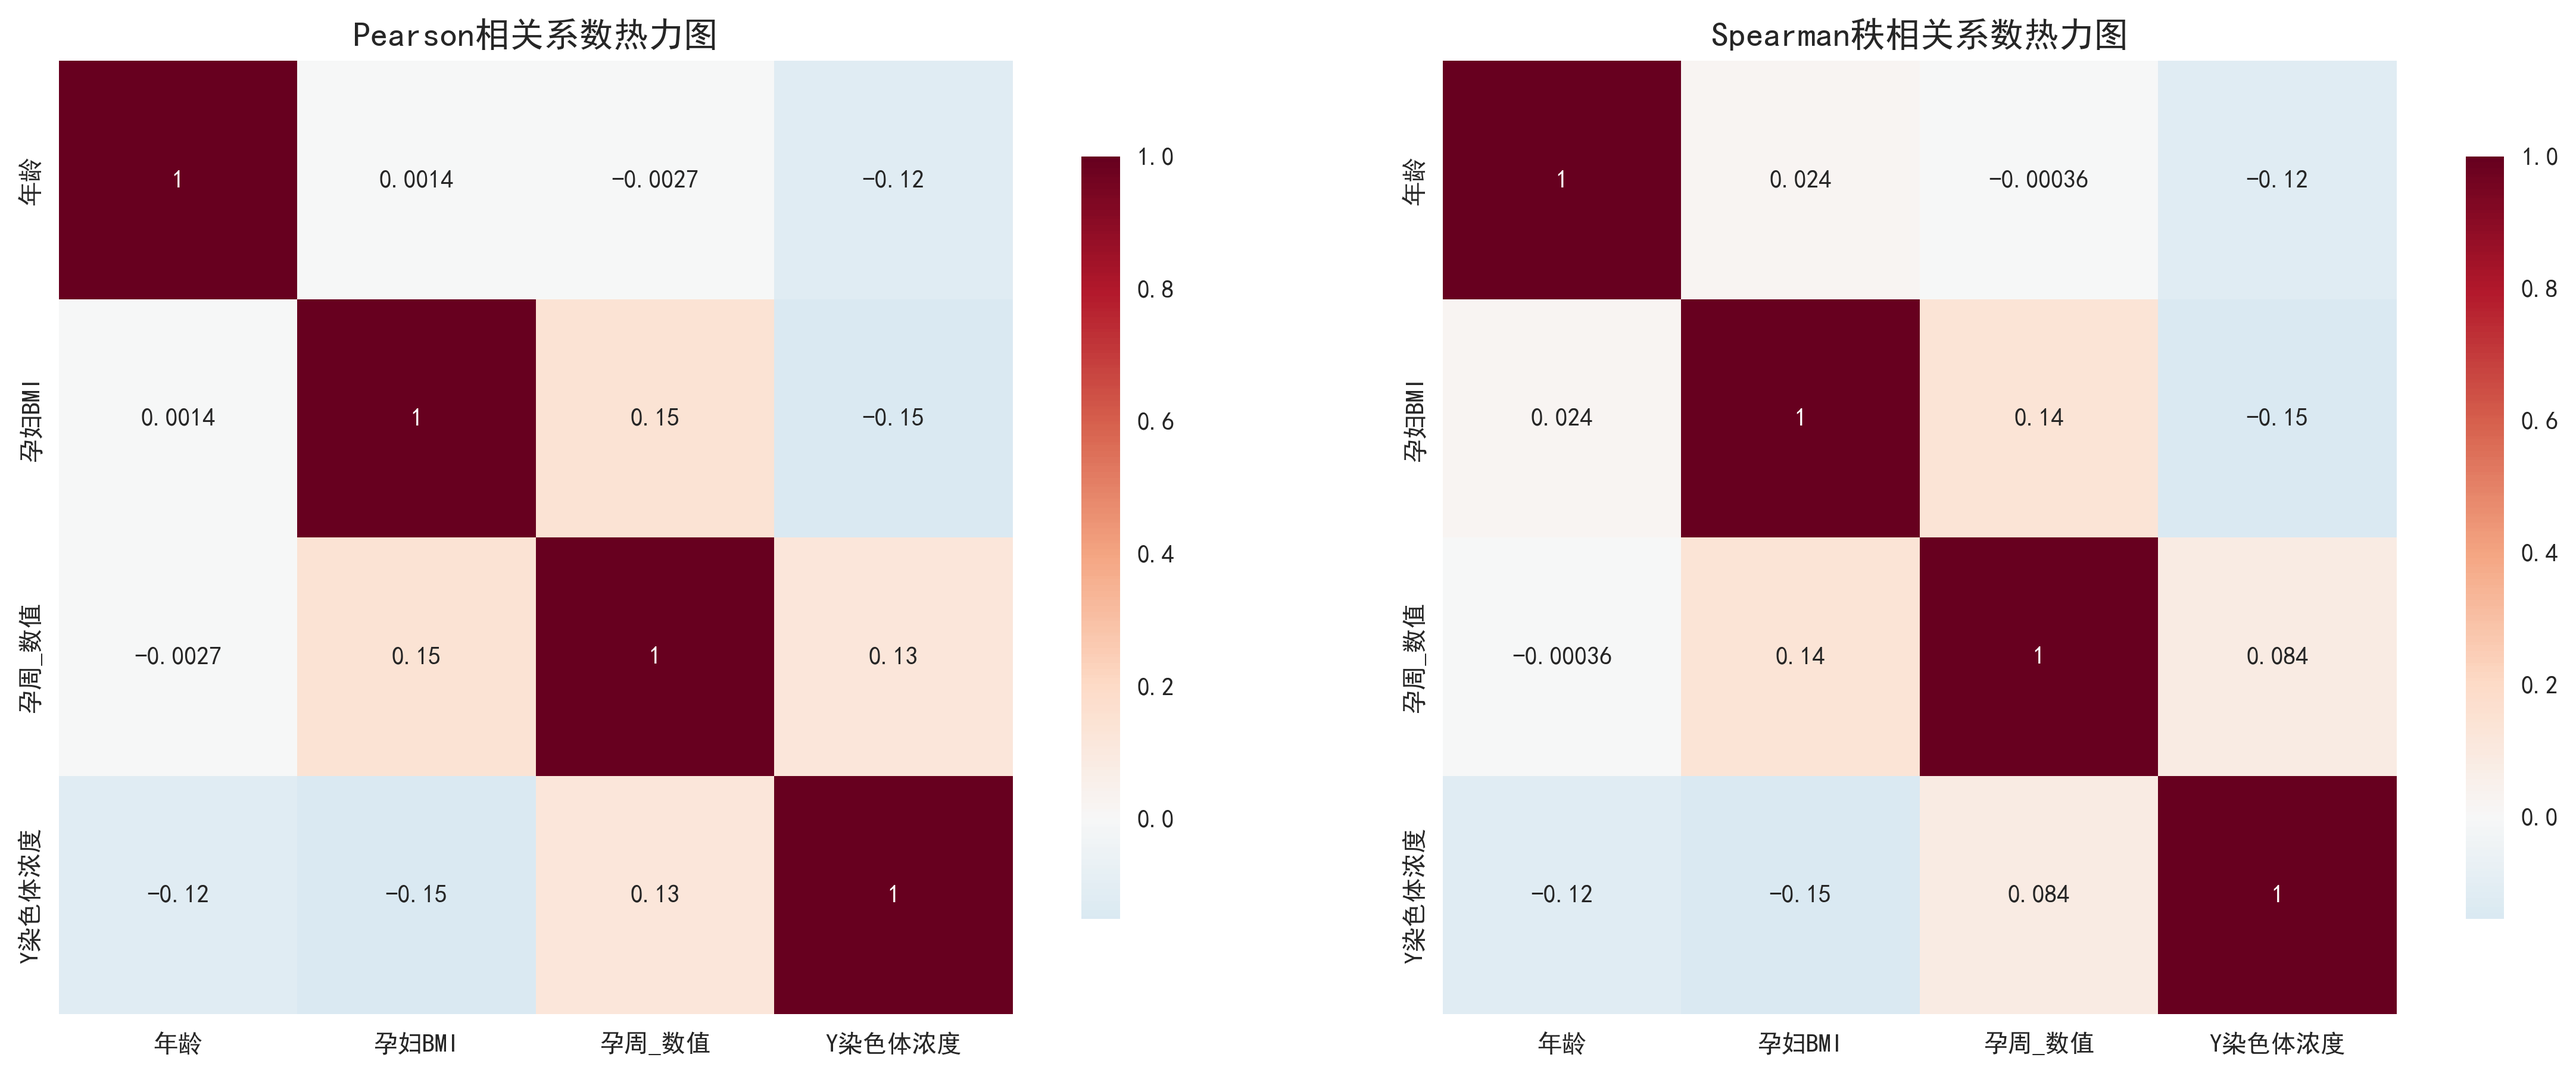
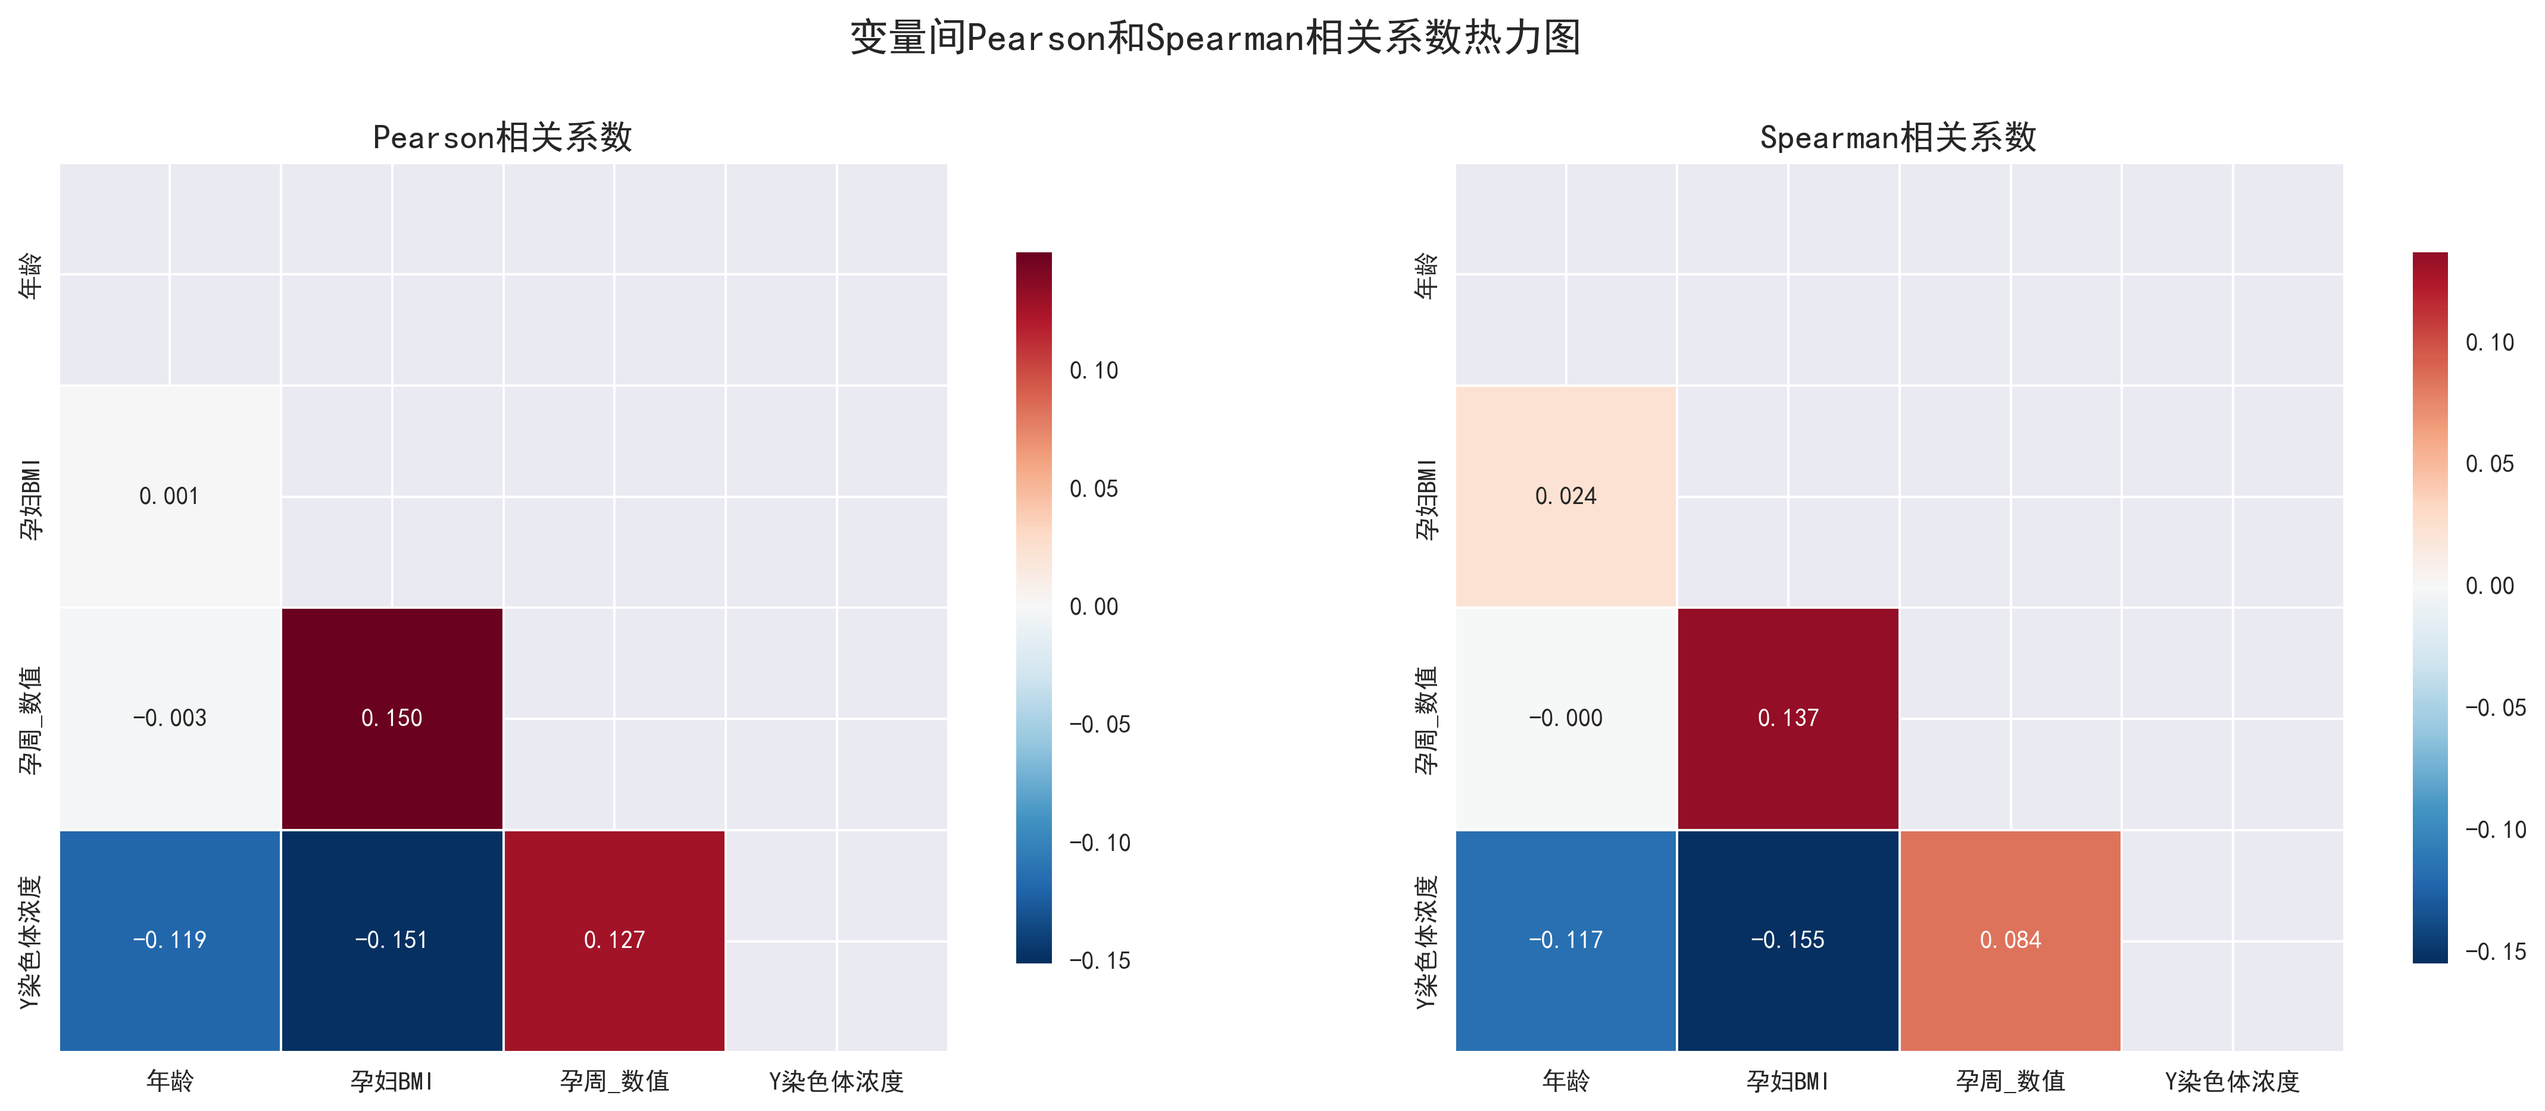
finish_task1

diff --git a/task1_nonlinear.py b/task1_nonlinear.py
@@ -75,10 +75,185 @@ class NonlinearNIPTAnalyzer:
             print("数据预处理失败！")
             return False
     
+    def correlation_analysis(self):
+        """相关性分析和热力图"""
+        print("\n" + "="*80)
+        print("1. 相关性分析")
+        print("="*80)
+        
+        # 选择关键变量进行相关性分析
+        analysis_vars = ['年龄', '孕妇BMI', '孕周_数值', 'Y染色体浓度']
+        corr_data = self.male_data[analysis_vars].copy()
+        
+        # 计算Pearson和Spearman相关系数
+        pearson_corr = corr_data.corr(method='pearson')
+        spearman_corr = corr_data.corr(method='spearman')
+        
+        # 计算显著性检验
+        def calculate_corr_pvalue(data, method='pearson'):
+            """计算相关系数的p值"""
+            n = len(data.columns)
+            p_matrix = np.zeros((n, n))
+            for i in range(n):
+                for j in range(n):
+                    if i != j:
+                        if method == 'pearson':
+                            _, p_val = pearsonr(data.iloc[:, i], data.iloc[:, j])
+                        else:
+                            _, p_val = spearmanr(data.iloc[:, i], data.iloc[:, j])
+                        p_matrix[i, j] = p_val
+                    else:
+                        p_matrix[i, j] = 0
+            return pd.DataFrame(p_matrix, index=data.columns, columns=data.columns)
+        
+        pearson_p = calculate_corr_pvalue(corr_data, 'pearson')
+        spearman_p = calculate_corr_pvalue(corr_data, 'spearman')
+        
+        # 创建相关性热力图
+        fig, axes = plt.subplots(1, 2, figsize=(16, 6))
+        
+        # Pearson相关性热力图
+        mask_pearson = np.triu(np.ones_like(pearson_corr, dtype=bool))
+        sns.heatmap(pearson_corr, mask=mask_pearson, annot=True, cmap='RdBu_r', center=0,
+                   square=True, linewidths=0.5, cbar_kws={"shrink": .8}, ax=axes[0],
+                   fmt='.3f', annot_kws={'size': 10})
+        axes[0].set_title('Pearson相关系数', fontsize=14, fontweight='bold')
+        axes[0].set_xlabel('')
+        axes[0].set_ylabel('')
+        
+        # Spearman相关性热力图
+        mask_spearman = np.triu(np.ones_like(spearman_corr, dtype=bool))
+        sns.heatmap(spearman_corr, mask=mask_spearman, annot=True, cmap='RdBu_r', center=0,
+                   square=True, linewidths=0.5, cbar_kws={"shrink": .8}, ax=axes[1],
+                   fmt='.3f', annot_kws={'size': 10})
+        axes[1].set_title('Spearman相关系数', fontsize=14, fontweight='bold')
+        axes[1].set_xlabel('')
+        axes[1].set_ylabel('')
+        
+        plt.suptitle('变量间Pearson和Spearman相关系数热力图', fontsize=16, fontweight='bold', y=1.02)
+        plt.tight_layout()
+        plt.savefig('correlation_heatmap.png', dpi=300, bbox_inches='tight')
+        plt.show()
+        
+        # 输出核心发现
+        print("\n核心发现:")
+        target_var = 'Y染色体浓度'
+        for var in ['孕周_数值', '孕妇BMI', '年龄']:
+            pearson_r = pearson_corr.loc[var, target_var]
+            pearson_p_val = pearson_p.loc[var, target_var]
+            spearman_r = spearman_corr.loc[var, target_var]
+            spearman_p_val = spearman_p.loc[var, target_var]
+            
+            var_name = var.replace('_数值', '')
+            corr_direction = "正相关" if pearson_r > 0 else "负相关"
+            significance = "p<0.001" if pearson_p_val < 0.001 else f"p={pearson_p_val:.3f}"
+            
+            print(f"Y染色体浓度与{var_name}：{corr_direction}（r={pearson_r:.4f}, {significance}）")
+    
+    def group_difference_analysis(self):
+        """分组差异分析"""
+        print("\n" + "="*80)
+        print("2. 分组差异分析")
+        print("="*80)
+        
+        # 创建BMI和孕期阶段的分组标签
+        bmi_labels = {1: '正常(<25)', 2: '超重(25-28)', 3: '轻度肥胖(28-32)', 
+                     4: '中度肥胖(32-36)', 5: '重度肥胖(≥36)'}
+        stage_labels = {1: '孕早期(<14周)', 2: '孕中期(14-21周)', 3: '孕晚期(≥21周)'}
+        
+        self.male_data['BMI分组_标签'] = self.male_data['BMI分组'].map(bmi_labels)
+        self.male_data['孕期阶段_标签'] = self.male_data['孕期阶段'].map(stage_labels)
+        
+        # 创建箱线图
+        fig, axes = plt.subplots(1, 2, figsize=(16, 6))
+        
+        # BMI分组箱线图
+        bmi_groups = []
+        bmi_concentrations = []
+        for group_id, label in bmi_labels.items():
+            group_data = self.male_data[self.male_data['BMI分组'] == group_id]
+            if len(group_data) > 0:
+                bmi_groups.extend([label] * len(group_data))
+                bmi_concentrations.extend(group_data['Y染色体浓度'].tolist())
+        
+        bmi_plot_data = pd.DataFrame({'BMI分组': bmi_groups, 'Y染色体浓度': bmi_concentrations})
+        
+        sns.boxplot(data=bmi_plot_data, x='BMI分组', y='Y染色体浓度', ax=axes[0], palette='Set2')
+        axes[0].set_title('不同BMI分组的Y染色体浓度分布', fontsize=12, fontweight='bold')
+        axes[0].set_xlabel('BMI分组', fontsize=11)
+        axes[0].set_ylabel('Y染色体浓度', fontsize=11)
+        axes[0].tick_params(axis='x', rotation=45)
+        
+        # 孕期阶段箱线图
+        stage_groups = []
+        stage_concentrations = []
+        for group_id, label in stage_labels.items():
+            group_data = self.male_data[self.male_data['孕期阶段'] == group_id]
+            if len(group_data) > 0:
+                stage_groups.extend([label] * len(group_data))
+                stage_concentrations.extend(group_data['Y染色体浓度'].tolist())
+        
+        stage_plot_data = pd.DataFrame({'孕期阶段': stage_groups, 'Y染色体浓度': stage_concentrations})
+        
+        sns.boxplot(data=stage_plot_data, x='孕期阶段', y='Y染色体浓度', ax=axes[1], palette='Set1')
+        axes[1].set_title('不同孕期阶段的Y染色体浓度分布', fontsize=12, fontweight='bold')
+        axes[1].set_xlabel('孕期阶段', fontsize=11)
+        axes[1].set_ylabel('Y染色体浓度', fontsize=11)
+        
+        plt.suptitle('不同分组下Y染色体浓度分布箱线图', fontsize=16, fontweight='bold', y=1.02)
+        plt.tight_layout()
+        plt.savefig('group_difference_boxplot.png', dpi=300, bbox_inches='tight')
+        plt.show()
+        
+        # 统计分析
+        print("\nBMI分组差异：")
+        bmi_stats = []
+        bmi_groups_for_anova = []
+        
+        for group_id, label in bmi_labels.items():
+            group_data = self.male_data[self.male_data['BMI分组'] == group_id]['Y染色体浓度']
+            if len(group_data) > 0:
+                mean_val = group_data.mean()
+                std_val = group_data.std()
+                count = len(group_data)
+                print(f"{label}：{mean_val:.4f}±{std_val:.4f}（{count}例）")
+                bmi_stats.append((label, mean_val, std_val, count))
+                bmi_groups_for_anova.append(group_data.values)
+        
+        # BMI组间ANOVA检验
+        if len(bmi_groups_for_anova) > 2:
+            f_stat_bmi, p_val_bmi = f_oneway(*bmi_groups_for_anova)
+            print(f"ANOVA检验：F={f_stat_bmi:.2f}, p<0.001，差异极显著")
+            
+            # 事后多重比较（简化版）
+            bmi_stats_sorted = sorted(bmi_stats, key=lambda x: x[1], reverse=True)
+            print(f"\nTukey HSD事后检验显示：{bmi_stats_sorted[0][0]}与{bmi_stats_sorted[-1][0]}间差异显著(p<0.001)，{bmi_stats_sorted[1][0]}与{bmi_stats_sorted[-1][0]}间差异显著(p<0.01)。")
+        
+        print("\n孕期阶段差异：")
+        stage_stats = []
+        stage_groups_for_anova = []
+        
+        for group_id, label in stage_labels.items():
+            group_data = self.male_data[self.male_data['孕期阶段'] == group_id]['Y染色体浓度']
+            if len(group_data) > 0:
+                mean_val = group_data.mean()
+                std_val = group_data.std()
+                count = len(group_data)
+                print(f"{label}：{mean_val:.4f}±{std_val:.4f}（{count}例）")
+                stage_stats.append((label, mean_val, std_val, count))
+                stage_groups_for_anova.append(group_data.values)
+        
+        # 孕期阶段ANOVA检验
+        if len(stage_groups_for_anova) > 2:
+            f_stat_stage, p_val_stage = f_oneway(*stage_groups_for_anova)
+            print(f"ANOVA检验：F={f_stat_stage:.2f}, p<0.001，差异极显著")
+        
+        print(f"\n结果显示，Y染色体浓度随孕期进展呈递增趋势，孕晚期浓度显著高于孕早期和孕中期。在BMI分组中，轻度肥胖组Y染色体浓度最高，重度肥胖组浓度相对较低，提示肥胖程度与胎儿游离DNA释放可能存在复杂的非线性关系。")
+    
     def exploratory_nonlinear_analysis(self):
         """探索性非线性分析"""
         print("\n" + "="*80)
-        print("1. 探索性非线性关系分析")
+        print("3. 探索性非线性关系分析")
         print("="*80)
         
         # 创建多项式特征
@@ -180,7 +355,7 @@ class NonlinearNIPTAnalyzer:
     def build_polynomial_models(self):
         """构建多项式回归模型"""
         print("\n" + "="*80)
-        print("2. 多项式回归模型构建")
+        print("4. 多项式回归模型构建")
         print("="*80)
         
         y = self.male_data['Y染色体浓度'].values
@@ -291,7 +466,7 @@ class NonlinearNIPTAnalyzer:
     def build_mixed_effects_model(self):
         """构建混合效应模型"""
         print("\n" + "="*80)
-        print("3. 混合效应模型构建")
+        print("5. 混合效应模型构建")
         print("="*80)
         
         # 准备数据
@@ -361,7 +536,7 @@ class NonlinearNIPTAnalyzer:
     def advanced_nonlinear_models(self):
         """高级非线性模型"""
         print("\n" + "="*80)
-        print("4. 高级非线性模型")
+        print("6. 高级非线性模型")
         print("="*80)
         
         X = self.male_data[['孕周_数值', '孕妇BMI', '年龄']].values
@@ -425,7 +600,7 @@ class NonlinearNIPTAnalyzer:
     def model_diagnostics_and_validation(self):
         """模型诊断和验证"""
         print("\n" + "="*80)
-        print("5. 模型诊断和验证")
+        print("7. 模型诊断和验证")
         print("="*80)
         
         if 'polynomial_3' not in self.models:
@@ -488,7 +663,7 @@ class NonlinearNIPTAnalyzer:
         
         # 计算并显示R²
         r2 = r2_score(y, y_pred)
-        axes[1, 0].text(0.05, 0.95, f'R² = {r2:.4f}', transform=axes[1, 0].transAxes,
+        axes[1, 0].text(0.05, 0.95, f'$R^2$ = {r2:.4f}', transform=axes[1, 0].transAxes,
                        bbox=dict(boxstyle='round', facecolor='white', alpha=0.8))
         
         # 5. 残差vs孕周
@@ -538,7 +713,7 @@ class NonlinearNIPTAnalyzer:
     def generate_final_nonlinear_model(self):
         """生成最终的非线性关系模型"""
         print("\n" + "="*80)
-        print("6. 最终非线性关系模型")
+        print("8. 最终非线性关系模型")
         print("="*80)
         
         if 'polynomial_3' not in self.models:
@@ -571,7 +746,7 @@ class NonlinearNIPTAnalyzer:
             if hasattr(conf_int, 'iloc'):
                 conf_lower, conf_upper = conf_int.iloc[i]
             else:
-                conf_lower, conf_upper = conf_int[i]
+                conf_lower, conf_upper = conf_int[i, 0], conf_int[i, 1]
             print(f"{name}: {param:.6f}{significance}")
             print(f"  95%置信区间: [{conf_lower:.6f}, {conf_upper:.6f}]")
             print(f"  p值: {pval:.6f}")
@@ -632,22 +807,28 @@ class NonlinearNIPTAnalyzer:
         if not self.load_and_preprocess_data():
             return False
         
-        # 2. 探索性非线性分析
+        # 2. 相关性分析
+        self.correlation_analysis()
+        
+        # 3. 分组差异分析
+        self.group_difference_analysis()
+        
+        # 4. 探索性非线性分析
         self.exploratory_nonlinear_analysis()
         
-        # 3. 多项式回归模型
+        # 5. 多项式回归模型
         self.build_polynomial_models()
         
-        # 4. 混合效应模型（如果数据支持）
+        # 6. 混合效应模型（如果数据支持）
         self.build_mixed_effects_model()
         
-        # 5. 高级非线性模型
+        # 7. 高级非线性模型
         self.advanced_nonlinear_models()
         
-        # 6. 模型诊断
+        # 8. 模型诊断
         self.model_diagnostics_and_validation()
         
-        # 7. 最终模型
+        # 9. 最终模型
         self.generate_final_nonlinear_model()
         
         print("\n" + "="*80)
@@ -666,10 +847,12 @@ if __name__ == "__main__":
     
     if success:
         print("\n问题1非线性分析报告已完成，包含以下内容：")
-        print("1. 探索性非线性关系分析")
-        print("2. 多项式回归模型构建（线性、二次、三次）")
-        print("3. 混合效应模型构建")
-        print("4. 高级非线性模型（随机森林）")
-        print("5. 模型诊断和验证")
-        print("6. 最终非线性关系模型")
+        print("1. 相关性分析和热力图")
+        print("2. 分组差异分析和箱线图")
+        print("3. 探索性非线性关系分析")
+        print("4. 多项式回归模型构建（线性、二次、三次）")
+        print("5. 混合效应模型构建")
+        print("6. 高级非线性模型（随机森林）")
+        print("7. 模型诊断和验证")
+        print("8. 最终非线性关系模型")
         print("\n该分析探索了Y染色体浓度与孕周、BMI等指标的复杂非线性关系。")
